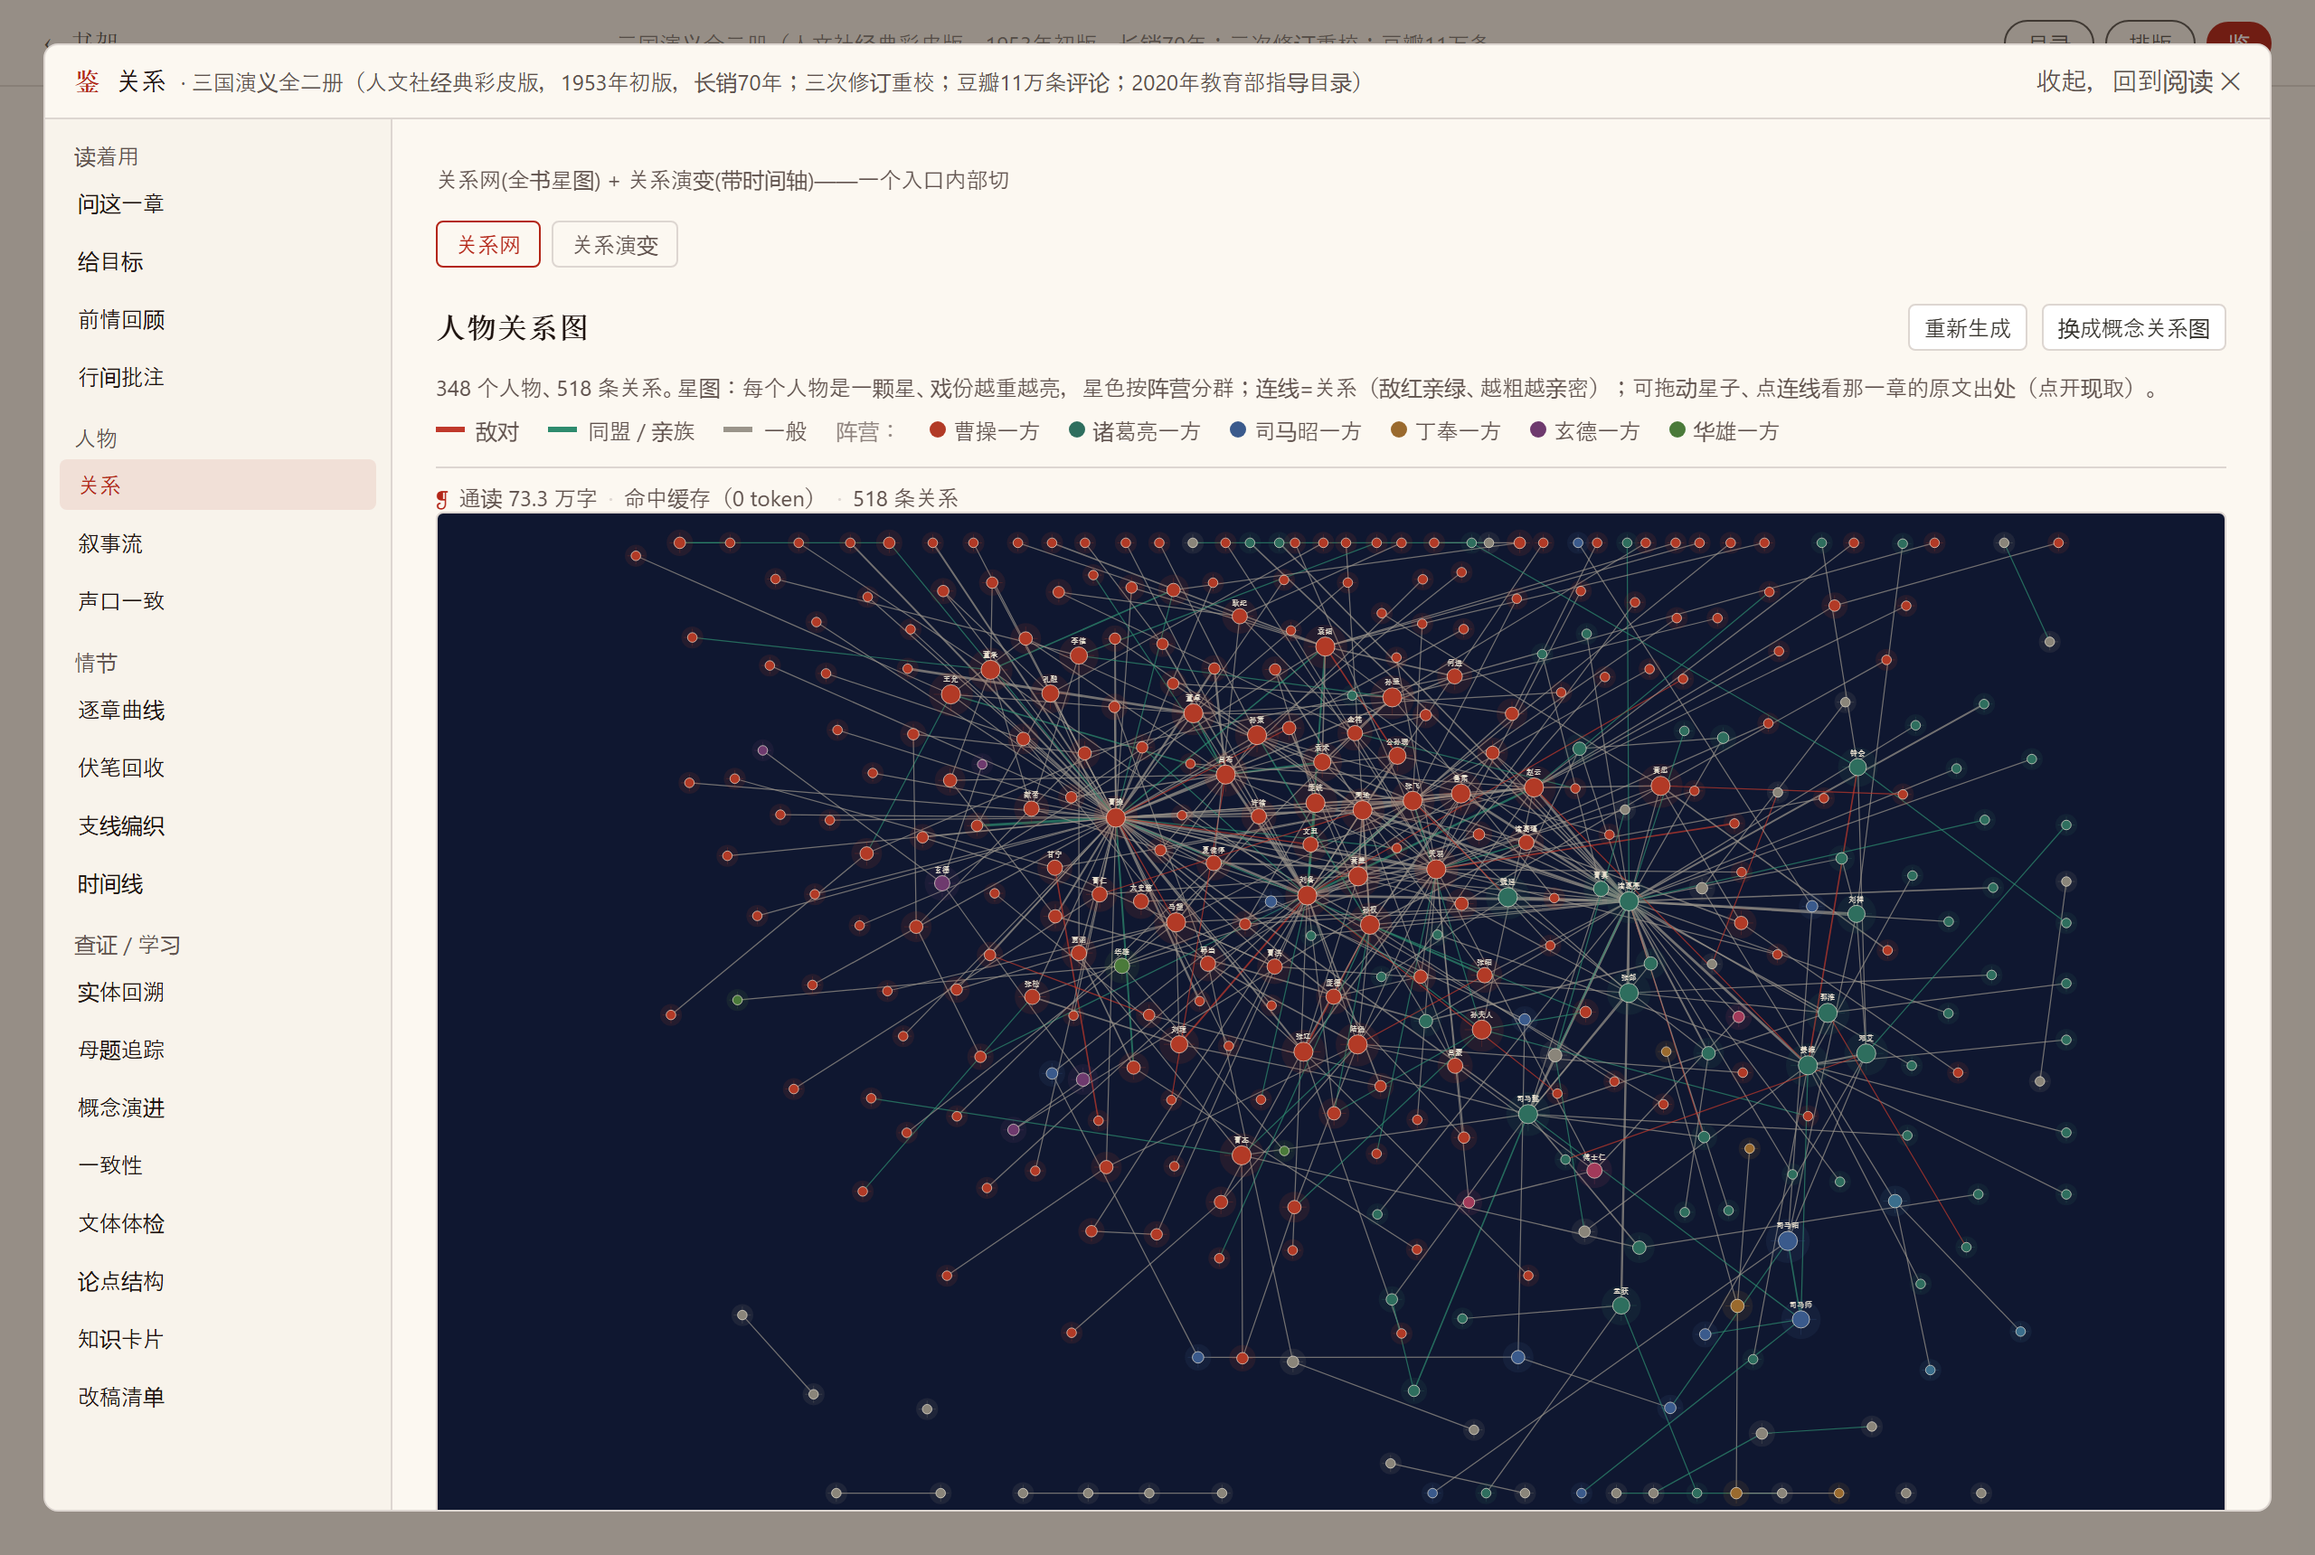
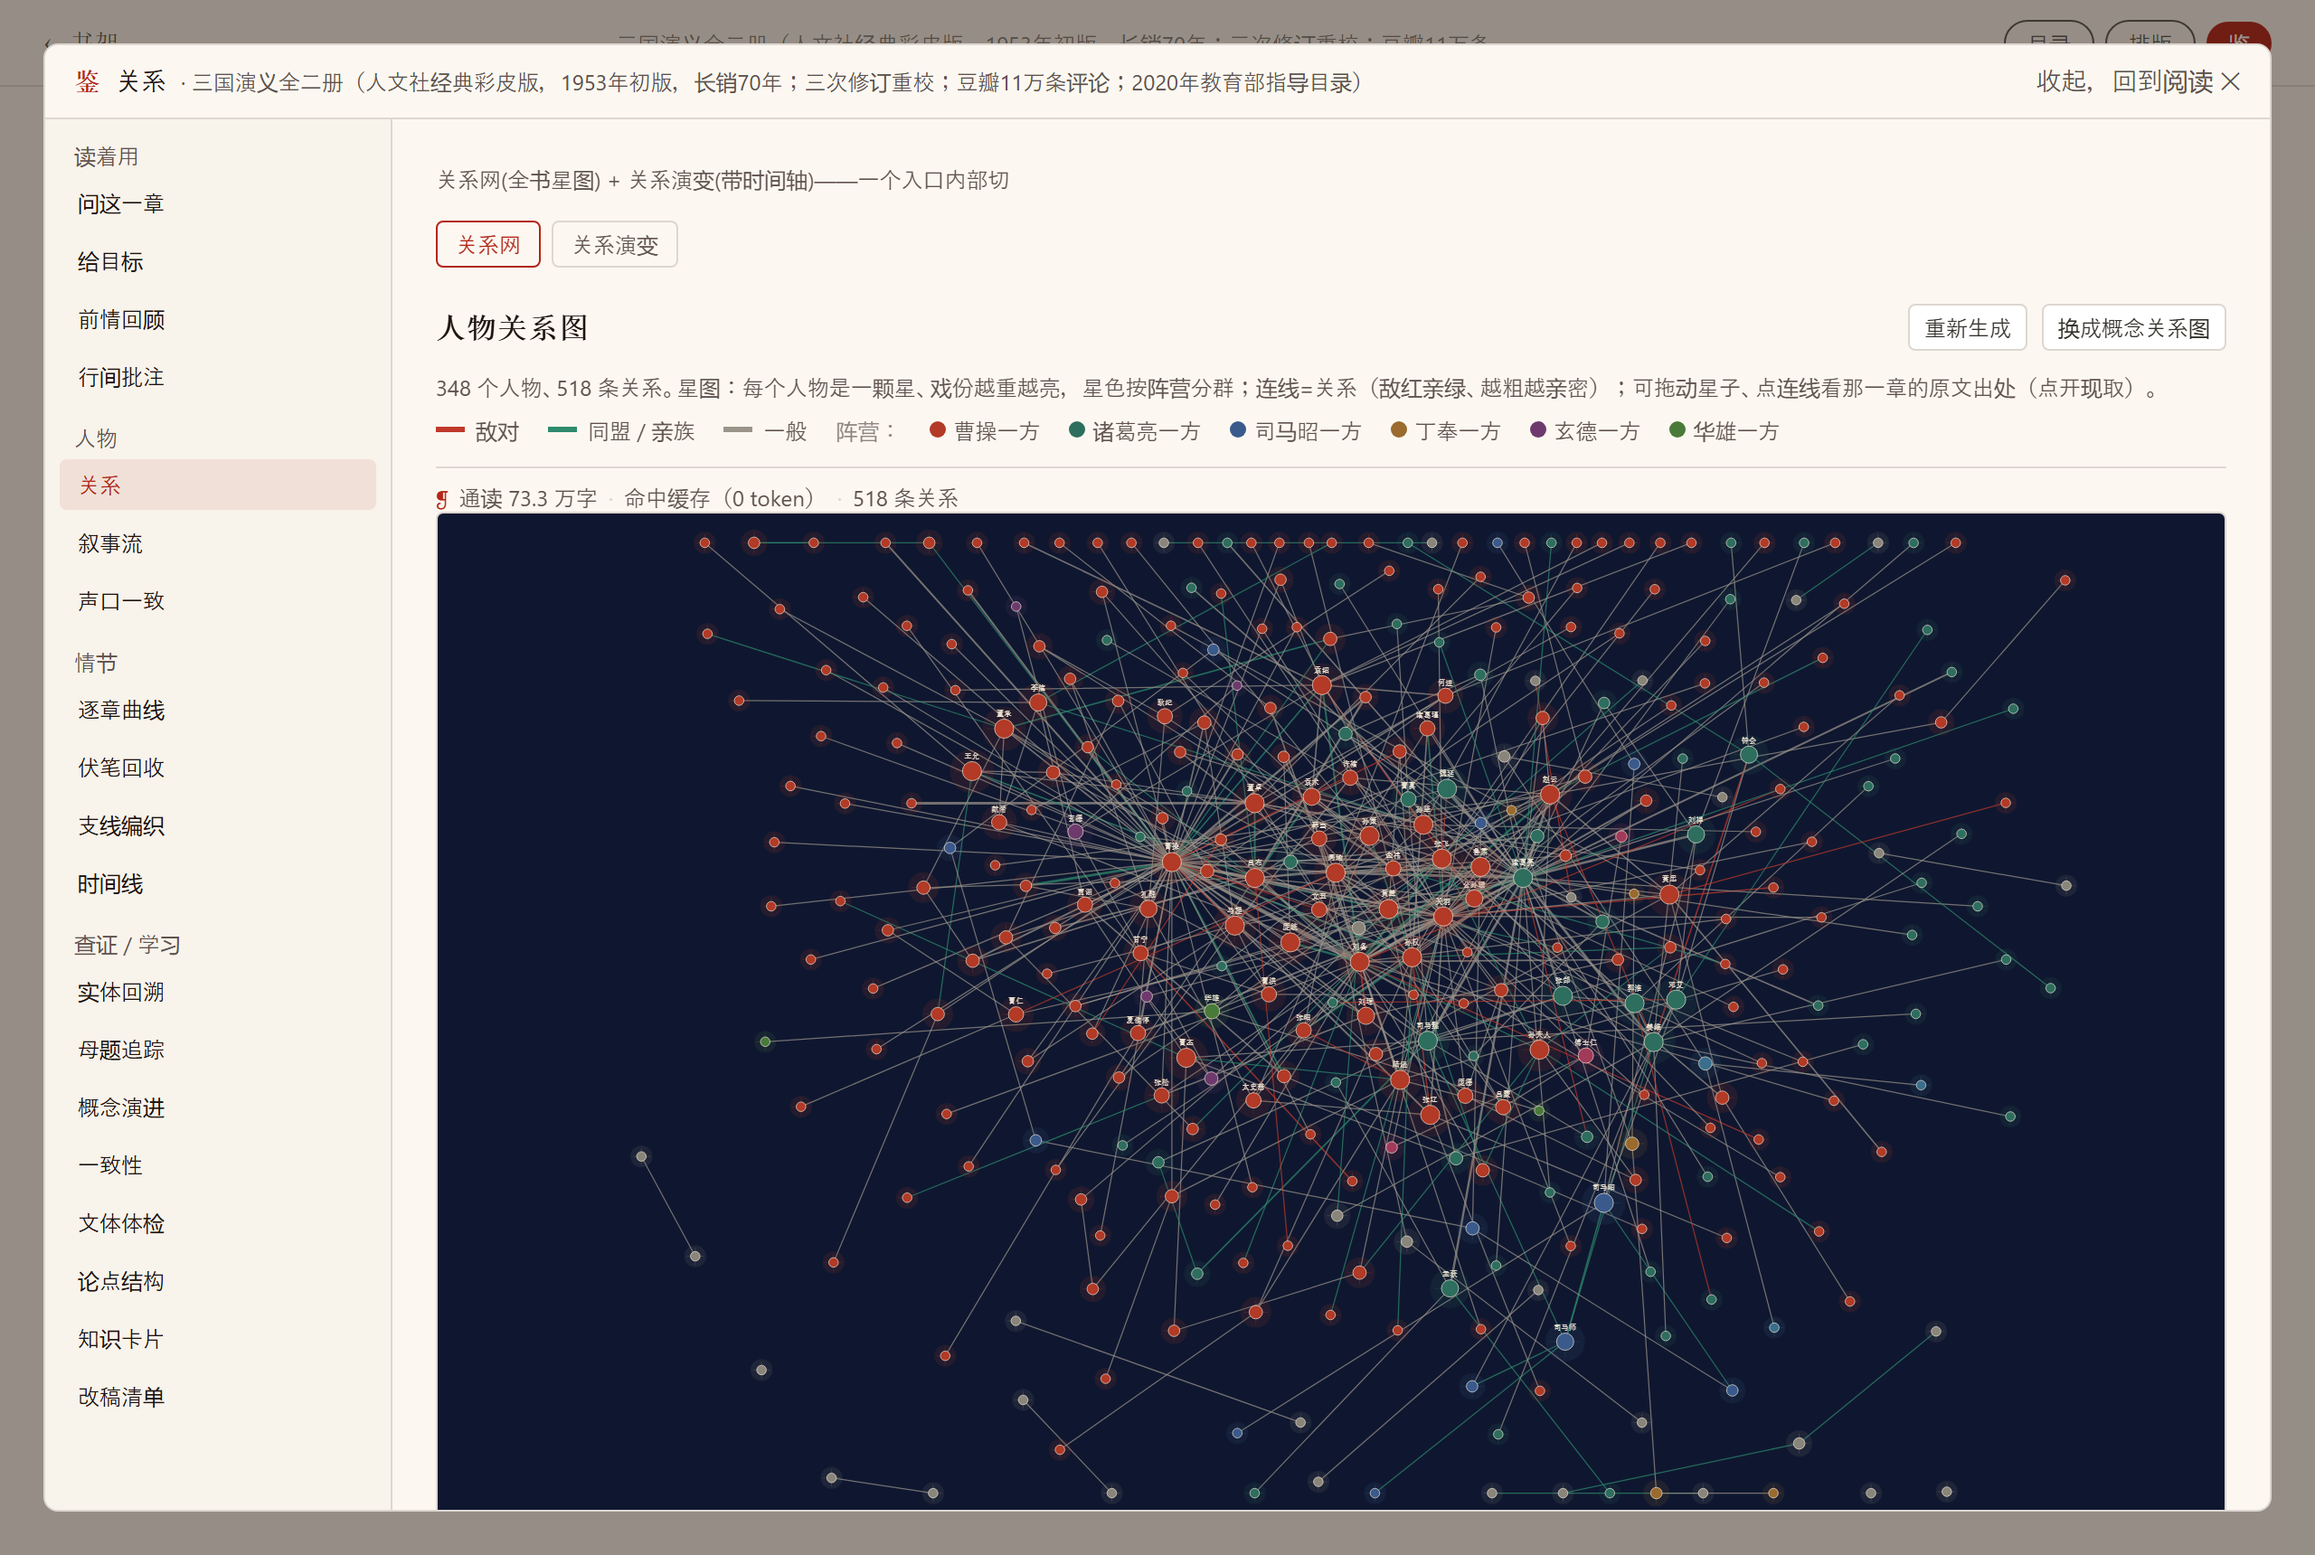
docs(readme): 加关系演变小多图 + 伏笔截图,反映重做后的可视化
## 目的
1.5 可视化修完(关系演变重做成小多图、伏笔改章脉真长弧),README 没展示这两个差异化最强的图。
作者要"重新修改 readme + 新截图"。补上、并重拍现有图保新鲜。

## 过程
扩 capture_screenshots.mjs 加关系演变(小多图)+ 伏笔回收两段抓图,重跑全部六张。README 中英
各加一对截图:关系演变(挑戏份最重几十对、每对一行 sparkline,和星图分工——星图看谁连谁、这里
看关系怎么变)+ 伏笔回收(朱弧从埋点拱到回收点,举魏延反骨第53回埋第105回应验跨大半本书)。caption
过 writing 写作闸(说人话、无解释破折号、举实例不空洞)。

## 结果
docs/images 多 relationship.png + foreshadow.png;graph.png 重拍(力导向新坐标);narrative/arc/flow
重拍字节相同(确定性 viz 数据没变)。README 中英同步。截图都来自刷新后的 demo fixture,是真后端
章脉派生数据(三国:关系演变 30 对、伏笔 94 弧 71 回收)。

## 变化
README.md / README.en.md 各加一对图 + caption;capture_screenshots.mjs 加两段抓图;
docs/images 加 2 张、更新 graph.png。未碰代码逻辑。关系图概念分支(并发代理处理中)接好后另提交。

diff --git a/README.en.md b/README.en.md
@@ -48,6 +48,13 @@ It runs locally on your own AI account. The book text goes straight to the provi
 </p>
 
 <p align="center">
+  <img src="docs/images/relationship.png" width="48%" alt="Relationship evolution as small-multiple timelines">
+  <img src="docs/images/foreshadow.png" width="48%" alt="Foreshadowing arcs from setup to payoff">
+  <br>
+  <sub>Left: relationship evolution — the heaviest few dozen pairs, one row each; the line rising means growing closer, falling means drifting apart. This splits work with the star map above: the map shows who connects to whom, this shows how a bond changed over the book. Right: foreshadowing — solid vermilion arcs span from a setup to its payoff (Wei Yan's "bone of rebellion," planted in ch. 53 and fulfilled in ch. 105, arcing across half the book); dashed grey arcs are setups left dangling.</sub>
+</p>
+
+<p align="center">
   <img src="docs/images/qa-citation.png" width="60%" alt="Answers carry their source; verified quotes get the 鉴 seal">
   <br>
   <sub>Ask the book: answers carry their source, quotes checked word-for-word get the 「鉴」seal; anything that fails the check never shows up.</sub>

diff --git a/README.md b/README.md
@@ -48,6 +48,13 @@
 </p>
 
 <p align="center">
+  <img src="docs/images/relationship.png" width="48%" alt="关系演变小多图时间线">
+  <img src="docs/images/foreshadow.png" width="48%" alt="伏笔回收弧线">
+  <br>
+  <sub>左：关系演变。挑戏份最重的几十对，每对一行，线往上是越来越紧、往下是渐疏，一眼看完谁和谁怎么一章章走到这一步。这和上面的星图分工：星图看“谁连着谁”，这里看“关系怎么变”。右：伏笔回收。埋的坑收没收，朱红实线从埋点拱到回收点（魏延脑后反骨，第 53 回埋、第 105 回应验，拱过大半本书），灰虚线是埋了没填的。</sub>
+</p>
+
+<p align="center">
   <img src="docs/images/qa-citation.png" width="60%" alt="带核验的问答：答案挂原文出处，盖「鉴」印">
   <br>
   <sub>问书：答案挂着原文出处，逐字核对过的盖了「鉴」印；核不上的不会冒出来。</sub>
